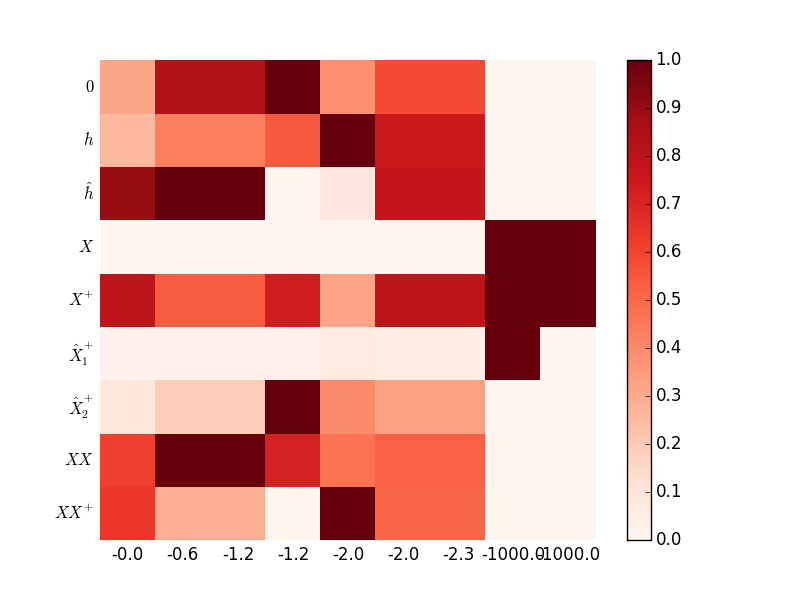
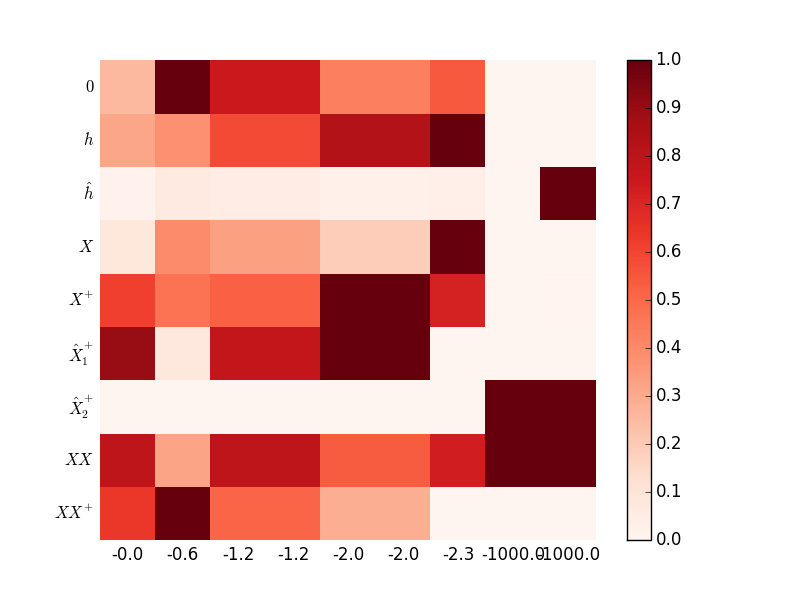
added plan for paper in readme

diff --git a/evecs.py b/evecs.py
@@ -7,7 +7,7 @@ T = TransitionMatrix()
 
 idx = T.evals.argsort()[::-1]
 evals = T.evals[idx]
-evecs = T.evecs[idx]
+evecs = T.evecs[:, idx]
 
 evalstring = ['%1.1lf' % e for e in evals]
 
@@ -23,7 +23,21 @@ fig, ax = ppl.subplots(1)
 # p = ax.pcolormesh(pevecs)
 ppl.pcolormesh(fig, ax, pevecs)
 # fig.colorbar(p)
-plt.yticks(9-np.arange(9)-0.5, ['$0$', '$h$', '$\hat{h}$', '$X$', '$X^+$', '$\hat{X}_1^+$', '$\hat{X}_2^+$', '$XX$', '$XX^+$'])
+plt.yticks(9-np.arange(9)-0.5,
+           ['$0$', '$h$', '$\hat{h}$', '$X$', '$X^+$', '$\hat{X}_1^+$', '$\hat{X}_2^+$', '$XX$', '$XX^+$'])
 plt.xticks(0.5+np.arange(9), evalstring)
 
 plt.savefig('output/evecs.png')
+
+plt.close()
+
+fig, ax = ppl.subplots(1)
+# p = ax.pcolormesh(pevecs)
+
+ppl.pcolormesh(fig, ax, T.matrix)
+# fig.colorbar(p)
+# plt.yticks(9-np.arange(9)-0.5,
+           # ['$0$', '$h$', '$\hat{h}$', '$X$', '$X^+$', '$\hat{X}_1^+$', '$\hat{X}_2^+$', '$XX$', '$XX^+$'])
+# plt.xticks(0.5+np.arange(9), evalstring)
+
+plt.savefig('output/matrix.png')

diff --git a/markov.py b/markov.py
@@ -62,9 +62,7 @@ class TransitionMatrix():
         s = self
         self.T = np.matrix([
             [-1.0/s.th, 0, 0, 1.0/s.t110, 0, 0, 0, 0, 0],
-            # [1.0/s.te, 0, 0, 0, 0, 0, 0, 0, 0], # single electron
             [1.0/s.th, -1.0/s.tpe, 1.0/s.t001, 0, 1.0/s.t120, 1.0/s.t1116, 0, 0, 0],
-            # [0, 1.0/s.tph, 0, 0, 0, 0, 0, 0, 0], # two hole.
             [0, 0, -1.0/s.t001, 0, 0, 1.0/s.t1117, 0, 0, 0],
             [0, 1.0/s.tpe, 0, -1.0/s.th-1.0/s.t110, 0, 0, 0, 1.0/s.t220, 0],
             [0, 0, 0, 1.0/s.th, -1.0/s.t120-1.0/s.geh-1.0/s.tpe, 1.0/s.gsf, 1.0/s.t001, 0, 0],

diff --git a/Readme.md b/Readme.md
@@ -10,7 +10,6 @@
 - Seems to be most promising.
 - Is a new point not made in existing literature.
 - I am unsure as to whether we can extract data from the indirect curves.
-- Perhaps something for Andreas to think about next week.
 
 ## Eigenvalue fittings.
 - I am pessimistic about using these.
@@ -19,4 +18,41 @@
 Use this fitting method to decide whether cascades are D/I/A. Then use these results to back up the theory of GJ of the hot trion system. Simply re-write the section by GJ in the formalism of the master equation, the advantages of this is essentially we are building the model backwards, from the data first, which is a more purely scientific approach. We accept the fact that we are not able to fit parameters, we either state the fact or not.
 
 ## Things to think about.
+
 Extracting parameters from the indirect transitions.
+
+# Paper
+
+## Motivation
+
+Many peaks QDs exhibit entanglement. This spectrum is systematic eacross the sample. We now carefully examine one QD, and do a wide range of measurements on it. We carefully define a formalism for examining the correlation curves. 
+We apply this formalism to the data, which then allows to build a master equation model of the states in the QD fine structure.
+
+## Master equation formalism.
+
+Deriving g2. Observing the 3 different kinds of g2 exist. Direct, Indirect, Antidirect.
+
+Indirect: after photon 1, in state x. need state y for photon 2.
+if the probability of going from x->y is greater than the equil prob of being in y, then the (_cascade_) would be indirect.
+
+## Adaptation of the model to the experimental conditions.
+
+Measurement time - sigma. 
+Nice convulted g2 function to fit and for parameter extraction. 
+
+focus on this --> (
+    four types of curves pre-conv - Direct, antidirect, fast indirect, slow indirect.
+
+    three types of curves post-conv - Direct, antidirect, indirect because fast indirect is indistinguishable from direct.
+) 
+
+## experimental data.
+
+show the spectrum, the lifetimes and the corr curves. Fit g2 to the corr curves. 
+Talk about choosing which i D/A/I or whether is ambigious between D/I.
+
+## building the charged biexciton fine structure model
+
+Building on the characterisation of the curves in the previous section and introduction assumptions about the QD system (like 4-5 being XX-X, with FSS, power dep etc).
+From this build up model of fine structure of the XX+ QD.
+
